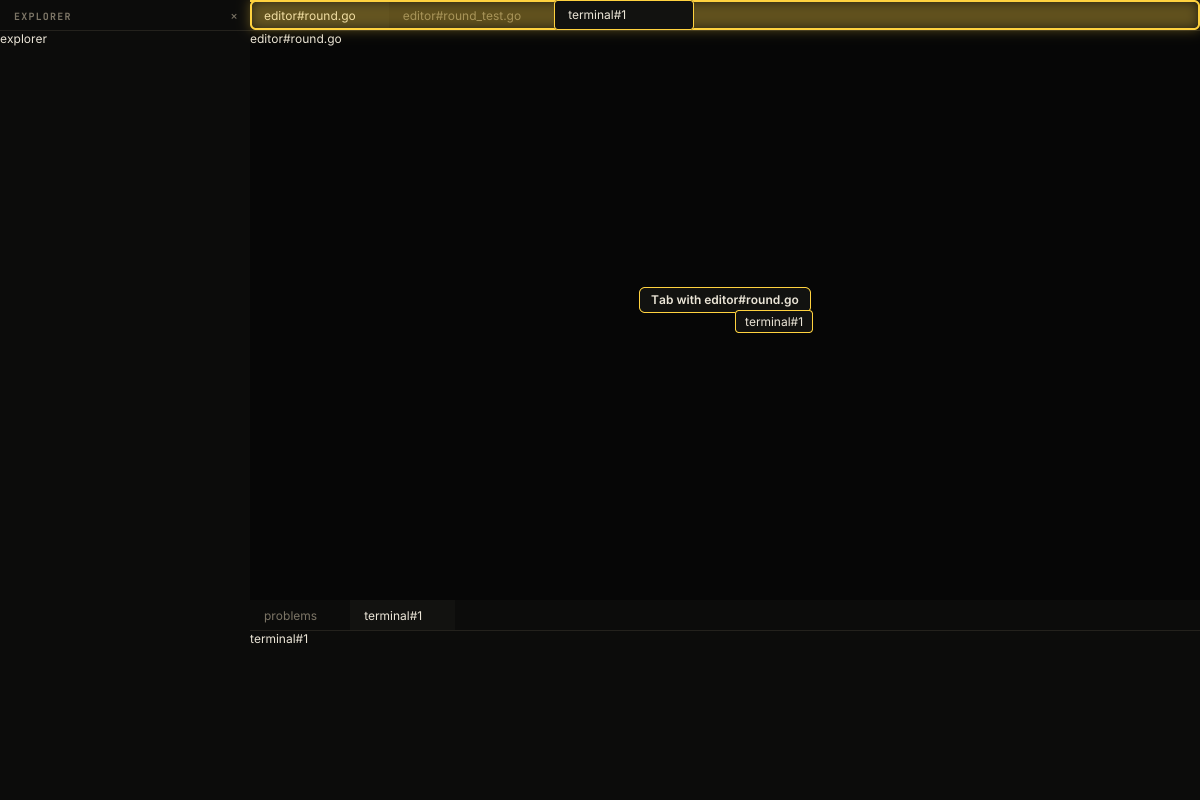
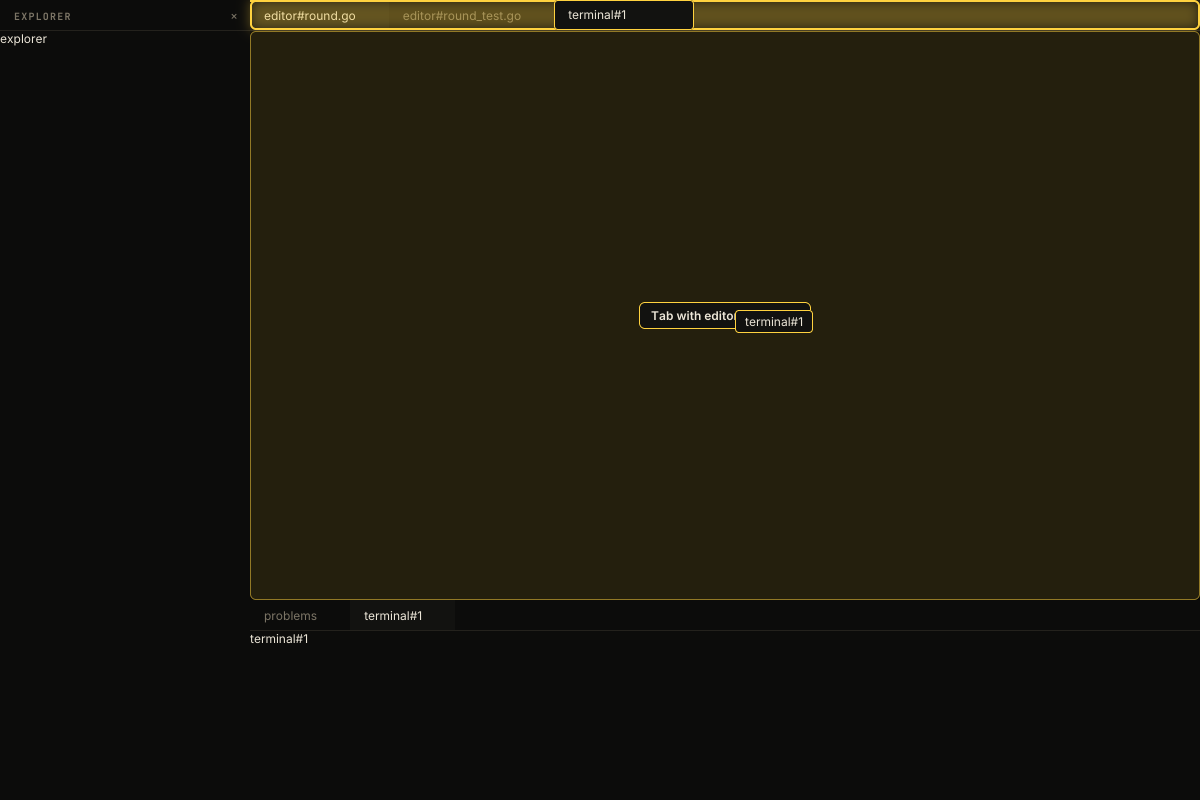
feat(layout): drop a dragged tab on any tab strip to join its tabs
A tab held over a pane's tab strip, a float's included, now shows as one
more tab there instead of a split. While a drop would join a pane's tabs,
the strip is outlined with the new tab's slot and the body is lit where
its content will show.

diff --git a/ui/layout/panes/panes.go b/ui/layout/panes/panes.go
@@ -54,13 +54,14 @@ type drag struct {
 	spot   spot
 }
 
-// spot is where a drag would drop and how it's shown: the rect lit, the slot a new tab would take, and the area
-// the label names it in.
+// spot is where a drag would drop and how it's shown: the rect lit, the slot a new tab would take, the body its
+// content would fill, and the area the label names it in.
 type spot struct {
 	ok     bool
 	target layout.Target
 	lit    render.Rect
 	slot   render.Rect
+	body   render.Rect
 	area   render.Rect
 	label  string
 }
@@ -593,8 +594,9 @@ func target(c *ui.Ctx, r *layout.Root, st *viewState, p render.Point) spot {
 		s := spot{ok: true, target: layout.Target{Dock: e}, lit: rc, area: rc, label: "Dock " + string(e)}
 		// An open dock with tabs takes the view as one more tab: show it as one.
 		if d := r.Docks[e]; d.Open && len(d.Leaf.Tabs) > 0 && (st.drag == nil || !slices.Contains(d.Leaf.Tabs, st.drag.view)) {
-			if strip, slot, ok := tabSlot(c, st, d.Leaf); ok {
-				s.lit, s.slot, s.label = strip, slot, "Tab with "+tabName(st, d.Leaf.Tabs[d.Leaf.Active])
+			if t, ok := tabSpot(c, st, d.Leaf, rc); ok {
+				t.target, t.label = s.target, "Tab with "+tabName(st, d.Leaf.Tabs[d.Leaf.Active])
+				return t
 			}
 		}
 		return s
@@ -616,9 +618,26 @@ func target(c *ui.Ctx, r *layout.Root, st *viewState, p render.Point) spot {
 		f := render.XYWH(p.X-200, p.Y-15, 640, 400)
 		return spot{ok: true, target: layout.Target{Float: &f}, lit: f, area: f, label: "Float"}
 	}
+	// joins is a drop on l's tab strip: one more tab there.
+	joins := func(l *layout.Node, rc render.Rect) (spot, bool) {
+		if len(l.Tabs) == 0 {
+			return spot{}, false
+		}
+		strip, ok := c.Rect(st.strips[l].id)
+		if !ok || !in(p, strip) {
+			return spot{}, false
+		}
+		s, ok := tabSpot(c, st, l, rc)
+		b := l.Tabs[l.Active]
+		s.target, s.label = layout.Target{Beside: &b, Zone: layout.ZoneCenter}, "Tab with "+tabName(st, b)
+		return s, ok
+	}
 	// A float or the drop-down sits over main.
 	for l, id := range st.leaves {
 		if rc, ok := c.Rect(id); ok && in(p, rc) && !r.InMain(l) {
+			if s, ok := joins(l, rc); ok {
+				return s
+			}
 			return float()
 		}
 	}
@@ -626,6 +645,9 @@ func target(c *ui.Ctx, r *layout.Root, st *viewState, p render.Point) spot {
 		rc, ok := c.Rect(id)
 		if !ok || !in(p, rc) {
 			continue
+		}
+		if s, ok := joins(l, rc); ok {
+			return s
 		}
 		var beside *layout.ViewRef
 		if len(l.Tabs) > 0 {
@@ -648,16 +670,27 @@ func target(c *ui.Ctx, r *layout.Root, st *viewState, p render.Point) spot {
 			return split(layout.ZoneBottom, "Split below", render.XYWH(rc.Min.X, rc.Min.Y+h/2, w, h/2))
 		}
 		s := split(layout.ZoneCenter, "Tab", rc)
-		s.area = rc
 		if beside != nil {
 			s.label = "Tab with " + tabName(st, *beside)
 		}
-		if strip, slot, ok := tabSlot(c, st, l); ok {
-			s.lit, s.slot = strip, slot
+		if t, ok := tabSpot(c, st, l, rc); ok {
+			t.target, t.label = s.target, s.label
+			return t
 		}
 		return s
 	}
 	return float()
+}
+
+// tabSpot shows a drop joining l's tabs, l drawn at rc: its strip outlined with the new tab's slot on the end, and
+// the body under it lit where the tab's content would show.
+func tabSpot(c *ui.Ctx, st *viewState, l *layout.Node, rc render.Rect) (spot, bool) {
+	strip, slot, ok := tabSlot(c, st, l)
+	if !ok {
+		return spot{}, false
+	}
+	body := render.Rect{Min: render.Point{X: rc.Min.X, Y: strip.Max.Y + 1}, Max: rc.Max}
+	return spot{ok: true, lit: strip, slot: slot, body: body, area: body}, true
 }
 
 // tabSlot is l's tab strip and the slot on the end of it a new tab would take.
@@ -738,6 +771,10 @@ func indicator(c *ui.Ctx, st *viewState, d *drag) {
 		}
 		c.Box("drop", ui.Style{W: ui.Px(w), H: ui.Px(h), Z: ui.LayerDrag, Fill: fill, Stroke: edge, Border: 1.5, Radius: 6,
 			Float: &ui.Float{Point: &at}, Help: HelpDrop}, nil)
+	}
+	if b := s.body; b != (render.Rect{}) {
+		c.Box("body", ui.Style{W: ui.Px(b.Dx()), H: ui.Px(b.Dy()), Z: ui.LayerDrag, Fill: th.C(tDrop), Stroke: theme.WithAlpha(edge, .5),
+			Border: 1, Radius: 6, Float: &ui.Float{Point: &b.Min}}, nil)
 	}
 	font := ui.TextStyle{Font: typeset.FontSpec{Family: typeset.UI, Size: 12}, Color: th.C(tTabFgOn)}
 	name := strings.TrimSpace(tabName(st, d.view))

diff --git a/app/shell/tabdrag_test.go b/app/shell/tabdrag_test.go
@@ -116,6 +116,13 @@ func TestTabDragKeepsTheView(t *testing.T) {
 		{"the console split beside it, then a.go clicked", []func(*apptest.Scene){
 			dragTab("Agent", mainAt(.9, .5)), func(s *apptest.Scene) { s.Click(tabPoint(s, "a.go"), 0); s.Frames(2) }},
 			"leaf [*agent.console]"},
+		{"split right, then onto the other's tab strip", []func(*apptest.Scene){
+			dragTab("a.go", mainAt(.9, .5)), dragTab("a.go", func(s *apptest.Scene) render.Point { return tabPoint(s, "b.go") })},
+			"leaf [editor#2 *editor#1]"},
+		{"onto a float's tab strip", []func(*apptest.Scene){
+			dragTab("b.go", func(s *apptest.Scene) render.Point { return render.Point{X: 600, Y: 10} }),
+			dragTab("a.go", func(s *apptest.Scene) render.Point { return tabPoint(s, "b.go") })},
+			"[editor#2 *editor#1]\n"},
 		{"onto its own leaf's middle: stays", []func(*apptest.Scene){dragTab("a.go", mainAt(.5, .5))}, "leaf [*editor#1 editor#2]"},
 	}
 	for _, f := range flows {
@@ -156,10 +163,10 @@ func TestKeyMovesKeepTheKeys(t *testing.T) {
 	}
 }
 
-// Held over a dock with views in it, a tab shows as one more tab there, not as the dock taken over.
-func TestTabHeldOverADockShowsAsATab(t *testing.T) {
-	s := tabDragScene(t)
-	from, to := tabPoint(s, "a.go"), centreOf("Bottom dock")(s)
+// holdTab presses name's tab and holds it over the point at gives, without letting go.
+func holdTab(s *apptest.Scene, name string, at func(s *apptest.Scene) render.Point) {
+	s.T.Helper()
+	from, to := tabPoint(s, name), at(s)
 	s.UI().Pointer(render.PointerEvent{Kind: render.PointerMove, Pos: from})
 	s.Frame()
 	s.UI().Pointer(render.PointerEvent{Kind: render.PointerPress, Pos: from, Buttons: render.ButtonPrimary})
@@ -168,6 +175,24 @@ func TestTabHeldOverADockShowsAsATab(t *testing.T) {
 		s.UI().Pointer(render.PointerEvent{Kind: render.PointerMove, Pos: p})
 		s.Frame()
 	}
+}
+
+// Held over another pane's tab strip, a tab shows as one more tab there, not as a split.
+func TestTabHeldOverATabStripShowsAsATab(t *testing.T) {
+	s := tabDragScene(t)
+	s.Run("editor.open", registry.Args{"path": "a.go"})
+	s.Frames(2)
+	dragTab("a.go", mainAt(.9, .5))(s)
+	holdTab(s, "a.go", func(s *apptest.Scene) render.Point { return tabPoint(s, "b.go") })
+	if text := s.Text(); !strings.Contains(text, "Tab with b.go") || strings.Contains(text, "Split") {
+		t.Errorf("the drop isn't shown as a tab:\n%s", text)
+	}
+}
+
+// Held over a dock with views in it, a tab shows as one more tab there, not as the dock taken over.
+func TestTabHeldOverADockShowsAsATab(t *testing.T) {
+	s := tabDragScene(t)
+	holdTab(s, "a.go", centreOf("Bottom dock"))
 	if text := s.Text(); !strings.Contains(text, "Tab with Agent") || strings.Contains(text, "Dock bottom") {
 		t.Errorf("the drop isn't shown as a tab:\n%s", text)
 	}

diff --git a/ui/layout/layout.go b/ui/layout/layout.go
@@ -562,7 +562,8 @@ const (
 	ZoneBottom Zone = "bottom"
 )
 
-// Target is where a dragged view lands: a zone of a main leaf (by a view in it), a dock, or a float.
+// Target is where a dragged view lands: a zone of a leaf (by a view in it; only a main leaf splits), a dock, or a
+// float.
 type Target struct {
 	Beside *ViewRef     `json:"beside,omitempty"` // a view in the leaf dropped on; nil drops on main's first leaf
 	Zone   Zone         `json:"zone,omitempty"`
@@ -585,6 +586,13 @@ func (r *Root) Drop(v ViewRef, t Target) error {
 	case t.Float != nil:
 		return r.Move(v, Floating, Opts{Rect: *t.Float})
 	case t.Zone == ZoneCenter || t.Zone == "":
+		if w := r.besideOff(t.Beside); w != nil {
+			r.detach(v)
+			w.Leaf.add(v)
+			r.Focus = &v
+			r.shown(v)
+			return nil
+		}
 		return r.Move(v, Tab, Opts{Beside: t.Beside})
 	}
 	side := map[Zone]Side{ZoneLeft: SideLeft, ZoneRight: SideRight, ZoneTop: SideUp, ZoneBottom: SideDown}[t.Zone]
@@ -601,6 +609,17 @@ func (r *Root) Drop(v ViewRef, t Target) error {
 		return nil
 	}
 	return r.Move(v, Split, Opts{Side: side, Beside: t.Beside})
+}
+
+// besideOff is where beside is when that's a float or the drop-down: a drop on its middle joins its tabs there.
+func (r *Root) besideOff(beside *ViewRef) *Where {
+	if beside == nil {
+		return nil
+	}
+	if w := r.Find(*beside); w != nil && (w.Placement == Floating || w.Placement == DropDown) {
+		return w
+	}
+	return nil
 }
 
 // dropsInPlace says dropping v at t would leave it where it is: on its own dock, or on its own leaf's middle.

diff --git a/app/shell/help/pages/layout/panes.md b/app/shell/help/pages/layout/panes.md
@@ -19,11 +19,12 @@ Drag the line between two panes to resize them. `⌃W =` evens them out.
 
 ## Drag and drop {#drag-and-drop}
 
-Drag a tab onto another pane's edge to split it, onto its middle to join its tabs, or onto a window edge to dock it.
+Drag a tab onto another pane's edge to split it, onto its middle or its tab strip to join its tabs, or onto a window
+edge to dock it. A floating pane's tab strip takes the tab too.
 
 While you drag, the target lights up and a label says what letting go does: *Split right*, *Tab with main.go*,
-*Dock bottom*. Joining a pane's tabs, or a dock that already has views, lights its tab strip and shows the new tab's
-slot at the end. Over a floating
-pane the drop floats, shown as a dashed outline.
+*Dock bottom*. Joining a pane's tabs, or a dock that already has views, outlines its tab strip, shows the new tab's
+slot at the end and lights the body where its content will show. Over the rest of a floating pane the drop floats,
+shown as a dashed outline.
 
 {{keys "layout.*"}}
